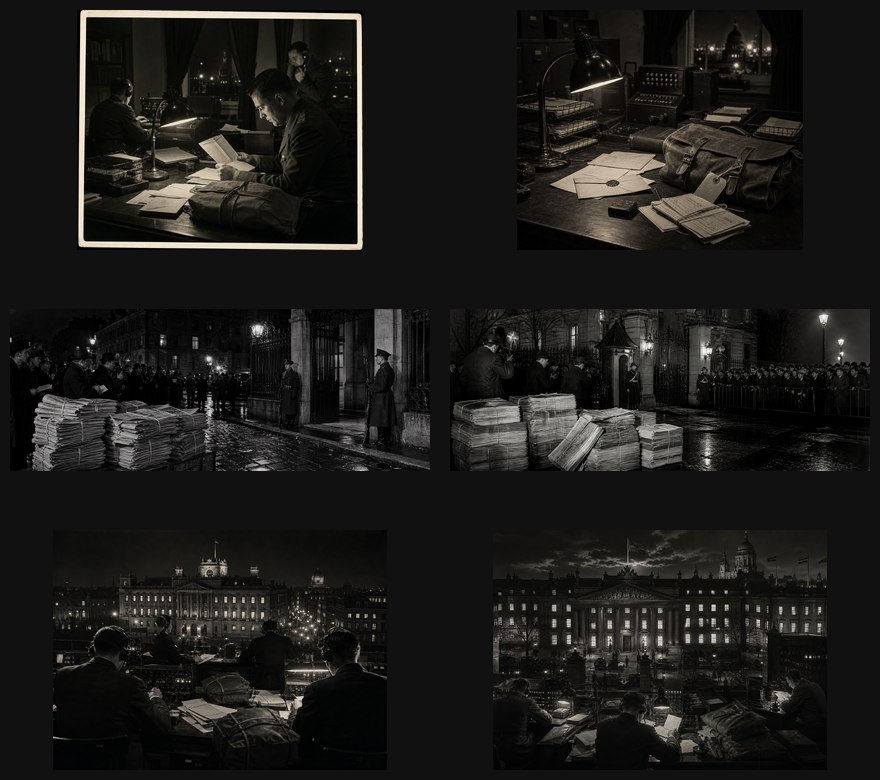
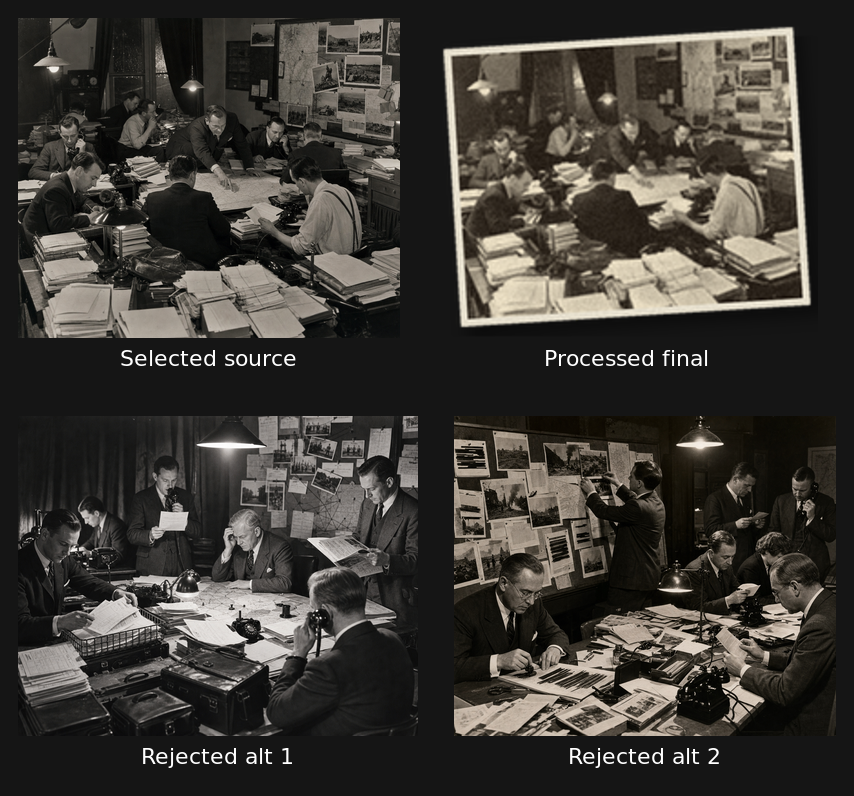
Regenerate Event 008 report image

diff --git a/docs/plans/008_tensions_rising_plans/subagent_handoffs/generated_report_regen_2026_06_14.md b/docs/plans/008_tensions_rising_plans/subagent_handoffs/generated_report_regen_2026_06_14.md
@@ -1,0 +1,83 @@
+# Event 008 Report Image Regeneration Handoff
+
+## Scope
+
+Regenerated the Event 008 `Tensions Rising` report event image package only. No gameplay, localisation, GUI, scripted, or `.gfx` files were edited.
+
+## Files Changed
+
+- `docs/assets/008_tensions_rising/prompts/report_event_tensions_rising.txt`
+- `docs/assets/008_tensions_rising/source_png/report_event_tensions_rising_source.png`
+- removed `docs/assets/008_tensions_rising/source_png/report_event_tensions_rising_source_a.png`
+- removed `docs/assets/008_tensions_rising/source_png/report_event_tensions_rising_source_b.png`
+- `docs/assets/008_tensions_rising/processed_png/report_event_tensions_rising.png`
+- `docs/assets/008_tensions_rising/contact_sheet/008_tensions_rising_alternatives.png`
+- `docs/assets/008_tensions_rising/manifest.md`
+- `gfx/event_pictures/report_event_tensions_rising.dds`
+
+## Source Mode
+
+- Generated with built-in `image_gen`.
+- Local report-event processing with `.agents/skills/chaos-redux-event-assets/tools/process_report_event_image.py`.
+- Local DDS conversion with ImageMagick `convert`.
+
+## Selected Visual
+
+Chosen source: crowded late-1930s embassy cable room with diplomats clustered around a crisis map, telephone traffic, document piles, and pinned incident photos. This replaced the older quieter desk shot because the new composition is denser, more specific, and reads as diplomatic panic rather than generic office ambience.
+
+## Commands And Tools Used
+
+Generation:
+
+- Built-in `image_gen` with the prompt stored in `docs/assets/008_tensions_rising/prompts/report_event_tensions_rising.txt`
+
+File placement:
+
+```bash
+cp /mnt/c/Users/klimp/.codex/generated_images/019ec53e-13db-75e0-98ab-2aaf6476d609/ig_0ae66a8424763cfa016a2e66e695688191a3e077fdedae6459.png docs/assets/008_tensions_rising/source_png/report_event_tensions_rising_source.png
+```
+
+Report-card processing:
+
+```bash
+python3 .agents/skills/chaos-redux-event-assets/tools/process_report_event_image.py \
+  docs/assets/008_tensions_rising/source_png/report_event_tensions_rising_source.png \
+  docs/assets/008_tensions_rising/processed_png/report_event_tensions_rising.png \
+  --border 4 \
+  --paper-grain 6 \
+  --grain 8 \
+  --angle 3.6 \
+  --shadow-offset 4 5 \
+  --shadow-blur 4.5 \
+  --shadow-opacity 0.48
+```
+
+DDS conversion:
+
+```bash
+convert docs/assets/008_tensions_rising/processed_png/report_event_tensions_rising.png \
+  -define dds:compression=none \
+  gfx/event_pictures/report_event_tensions_rising.dds
+```
+
+Contact sheet rebuild:
+
+```bash
+montage /tmp/008_cs_selected.png /tmp/008_cs_final.png /tmp/008_cs_alt1.png /tmp/008_cs_alt2.png \
+  -tile 2x2 -geometry +18+18 -background '#151515' \
+  docs/assets/008_tensions_rising/contact_sheet/008_tensions_rising_alternatives.png
+```
+
+## Validation Evidence
+
+- `identify` confirms `docs/assets/008_tensions_rising/processed_png/report_event_tensions_rising.png` is `210x176`.
+- `identify` confirms `gfx/event_pictures/report_event_tensions_rising.dds` is `210x176`.
+- `identify` reports both processed PNG and DDS as alpha-capable (`srgba`).
+- Corner-pixel check on the processed PNG returned:
+  `corner00=srgba(0,0,0,0) corner209=srgba(0,0,0,0) corner0175=srgba(0,0,0,0) corner209175=srgba(0,0,0,0)`
+- Visual inspection confirms subtle tilt, soft shadow, transparent edge space, and a readable central composition at report-event size.
+
+## Risks Or Blockers
+
+- No functional blocker remains.
+- Rejected alternatives remain only in the contact sheet and not as ambiguous package source files.

diff --git a/docs/assets/008_tensions_rising/manifest.md b/docs/assets/008_tensions_rising/manifest.md
@@ -6,6 +6,8 @@ Reference inspection completed:
 - `.agents/skills/chaos-redux-event-assets/assets/achievements/achievement.png`
 - `.agents/skills/chaos-redux-event-assets/assets/achievements/achievement_grey.png`
 - `.agents/skills/chaos-redux-event-assets/assets/achievements/achievement_not_eligible.png`
+- `.agents/skills/chaos-redux-event-assets/assets/report_event_images/report_event_soldiers_marching.png`
+- `.agents/skills/chaos-redux-event-assets/assets/report_event_images/report_event_soldiers_parade.png`
 - Additional Chaos Redux achievement examples in the same folder for framing, contrast, and readability checks.
 - Existing Chaos Redux report and news DDS dimensions and sprite wiring in `gfx/event_pictures/` and `interface/008_tensions_rising_event_images.gfx`.
 
@@ -17,8 +19,9 @@ Source mode:
 
 DDS conversion note:
 - Local conversion used `convert -define dds:compression=none`.
-- All final DDS files validate as `64x64`.
-- `file` reports a mix of `RGB888` and `ARGB8888` across the triplets; all exports remain valid uncompressed DDS outputs for the HOI4 achievement pipeline.
+- Event-image DDS outputs validate at their target sizes, including `210x176` for `report_event_tensions_rising`.
+- Achievement DDS triplets validate at `64x64`.
+- `file` reports a mix of `RGB888` and `ARGB8888` across the achievement triplets; all exports remain valid uncompressed DDS outputs for the HOI4 achievement pipeline.
 
 ## Assets
 
@@ -28,14 +31,16 @@ DDS conversion note:
 - Related event id: `008`
 - Related event slug: `tensions_rising`
 - Source mode: `$imagegen`
-- Source PNG A: `docs/assets/008_tensions_rising/source_png/report_event_tensions_rising_source_a.png`
-- Source PNG B: `docs/assets/008_tensions_rising/source_png/report_event_tensions_rising_source_b.png`
+- Prompt file: `docs/assets/008_tensions_rising/prompts/report_event_tensions_rising.txt`
+- Source PNG: `docs/assets/008_tensions_rising/source_png/report_event_tensions_rising_source.png`
 - Processed PNG: `docs/assets/008_tensions_rising/processed_png/report_event_tensions_rising.png`
 - Final DDS: `gfx/event_pictures/report_event_tensions_rising.dds`
 - Target size: `210x176`
 - Sprite name: `GFX_report_event_tensions_rising`
 - `.gfx` file: `interface/008_tensions_rising_event_images.gfx`
-- Notes: Diplomatic-cable pressure scene for the repeatable report event.
+- Style notes: Report-card treatment with black-and-white plus sepia toning, visible tilt, soft shadow, transparent corners, light paper border, and film grain.
+- Generation rationale: A unique fictional diplomatic-panic scene fits the event better than archive sourcing and avoids bland map-only or empty-desk compositions.
+- Notes: Crowded late-1930s embassy cable room with diplomats around a crisis map, stacked telegram slips, pinned border-incident photos, and harsh lamp lighting. No readable generated text, placeholders, flags, or modern devices.
 - Asset status: `complete`
 
 ### `news_event_tensions_red_line`